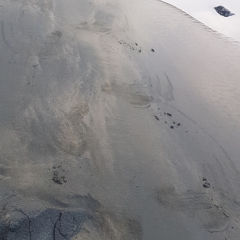
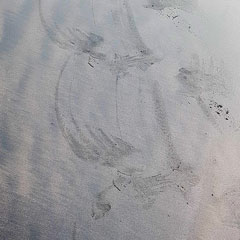
Replaced pics, added description and scale

diff --git a/species.js b/species.js
@@ -497,7 +497,7 @@ var species = [
             {"name":"c", "title":"Photo by Kath Dewar"},
             {"name":"d", "title":"Photo by Kath Dewar"}
         ],
-        "desc":"To do.",
+        "desc":"Up to 1m wide, fore flipper marks much larger than smaller hind flippers.",
         "similar":[
             {"link": "https://en.wikipedia.org/wiki/Arctocephalus_forsteri", "name": "New Zealand Fur Seal"}
         ],
